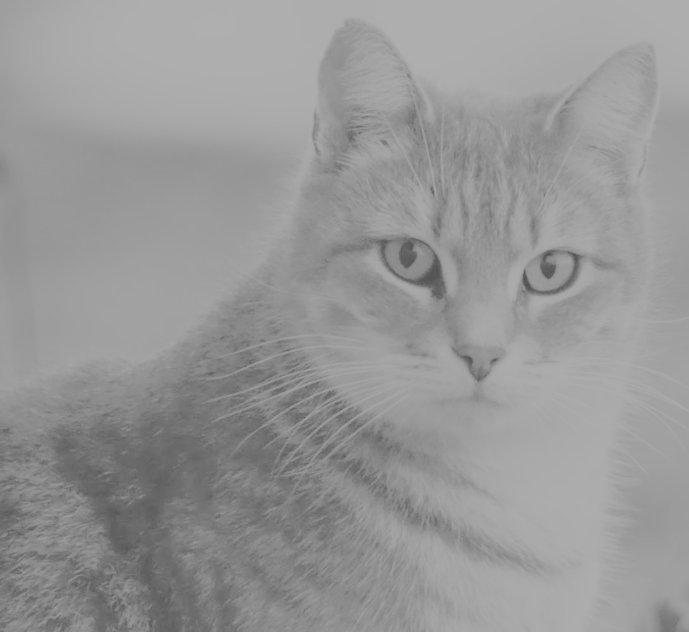
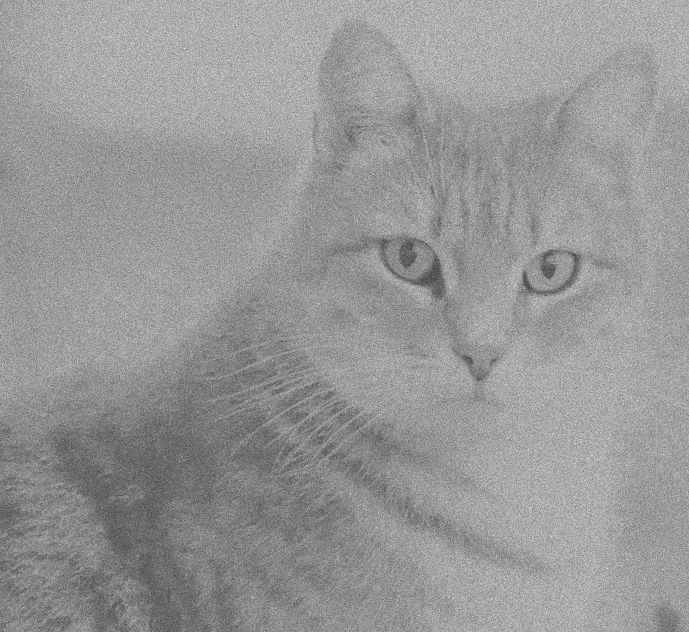
for submission

Changed region(s): [[0.2743, 0.0, 0.3048, 0.0301]]

diff --git a/noise.py b/noise.py
@@ -21,25 +21,46 @@ def add_gaussian_noise(image: np.ndarray, mean: float = 0.0, sigma: float = 10.0
     # ToDo: Generate gaussian noise and add it to the image.
     # ToDo: Hint: Look at the options among np.random to generate the noise.
     # ToDo: Hint: Don't forget to clip the values.
-    return image
+    noise = np.random.normal(mean, sigma, image.shape)
+
+    noisy_image = image.astype(np.float32) + noise
+
+    noisy_image = np.clip(noisy_image, 0, 255).astype(np.uint8)
+    return noisy_image
 
 
 def add_salt_and_pepper_noise(image: np.ndarray, salt_prob: float = 0.01, pepper_prob: float = 0.01) -> np.ndarray:
     # ToDo: Generate random salt and pepper noise based on the provided probabilities.
     # ToDo: Hint: Look at the options among np.random to generate the noise.
-    return image
+    noisy_image = np.copy(image)
+
+    rand = np.random.rand(*image.shape)
+
+    noisy_image[rand < pepper_prob] = 0
+
+    noisy_image[rand > 1 - salt_prob] = 255
+    return noisy_image
 
 
 def add_poisson_noise(image: np.ndarray) -> np.ndarray:
     # ToDo: Add poisson noise to the image.
     # ToDo: Hint: Look at the options among np.random to generate the noise.
-    return image
+    noisy_image = np.random.poisson(image.astype(np.float32))
+    noisy_image = np.clip(noisy_image, 0, 255).astype(np.uint8)
+    return noisy_image
 
 
 def add_uniform_noise(image: np.ndarray, low: float = -20.0, high: float = 20.0) -> np.ndarray:
     # ToDo: Add uniform noise to the image, which is sampled uniformly from the available values.
     # ToDo: Hint: Look at the options among np.random to generate the noise.
-    return image
+    noise = np.random.uniform(low, high, image.shape)
+
+    noisy_image = image.astype(np.float32) + noise
+
+    noisy_image = np.clip(noisy_image, 0, 255).astype(np.uint8)
+
+    return noisy_image
+
 
 
 def display_images(original: np.ndarray, processed: np.ndarray, title: str) -> None:
